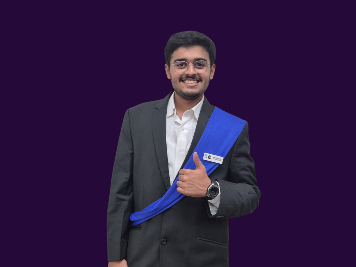
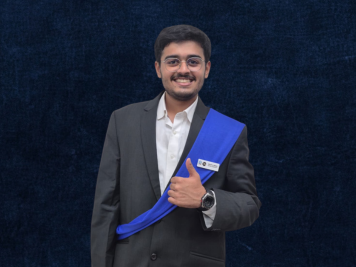
photo cards

diff --git a/index.html b/index.html
@@ -418,7 +418,7 @@
                 <!-- Core Team Member 2 -->
                 <div class="team-card">
                     <div class="team-img-wrapper">
-                        <img src="photos/rupak.jpg" alt="Rupak Humad">
+                        <img src="photos/Core/rupak.png" alt="Rupak Humad">
                     </div>
                     <div class="team-info">
                         <h4>Rupak Humad</h4>
@@ -442,7 +442,7 @@
                 <!-- Core Team Member 4 -->
                 <div class="team-card">
                     <div class="team-img-wrapper">
-                        <img src="photos/avni.jpg" alt="Avni Kondejkar">
+                        <img src="photos/Core/avni.png" alt="Avni Kondejkar">
                     </div>
                     <div class="team-info">
                         <h4>Avni Kondejkar</h4>
@@ -454,7 +454,7 @@
                 <!-- Core Team Member 5 -->
                 <div class="team-card">
                     <div class="team-img-wrapper">
-                        <img src="photos/Prajval.jpg" alt="Prajval Barve">
+                        <img src="photos/Core/prajval.png" alt="Prajval Barve">
                     </div>
                     <div class="team-info">
                         <h4>Prajval Barve</h4>
@@ -466,7 +466,7 @@
                 <!-- Core Team Member 6 -->
                 <div class="team-card">
                     <div class="team-img-wrapper">
-                        <img src="photos/preet.jpg" alt="Preet Panchal">
+                        <img src="photos/Core/preet.png" alt="Preet Panchal">
                     </div>
                     <div class="team-info">
                         <h4>Preet Panchal</h4>
@@ -478,7 +478,7 @@
                 <!-- Core Team Member 7 -->
                 <div class="team-card">
                     <div class="team-img-wrapper">
-                        <img src="photos/piyush.jpg" alt="Piyush Nirban">
+                        <img src="photos/Core/piyush.png" alt="Piyush Nirban">
                     </div>
                     <div class="team-info">
                         <h4>Piyush Nirban</h4>
@@ -487,10 +487,10 @@
                     </div>
                 </div>
 
-                <!-- Core Team Member 8 -->
+                <!-- Core Team Member 8  -->
                 <div class="team-card">
                     <div class="team-img-wrapper">
-                        <img src="photos/shraddha.jpg" alt="Shraddha Behra">
+                        <img src="photos/Core/shraddha.png" alt="Shraddha Behra">
                     </div>
                     <div class="team-info">
                         <h4>Shraddha Behra</h4>
@@ -502,7 +502,7 @@
                 <!-- Core Team Member 9 -->
                 <div class="team-card">
                     <div class="team-img-wrapper">
-                        <img src="photos/pranav.jpg" alt="Pranav Joshi">
+                        <img src="photos/Core/pranav.png" alt="Pranav Joshi">
                     </div>
                     <div class="team-info">
                         <h4>Pranav Joshi</h4>
@@ -510,10 +510,10 @@
                         <p>Leading Vortex 14.0 with passion and dedication.</p>
                     </div>
                 </div>
-                <!-- Core Team Member 24 -->
+                <!-- Core Team Member 10 -->
                 <div class="team-card">
                     <div class="team-img-wrapper">
-                        <img src="photos/Core/mrunal_bhat.jpeg" alt="Mrunal Bhat">
+                        <img src="photos/Core/mrunal.png" alt="Mrunal Bhat">
                     </div>
                     <div class="team-info">
                         <h4>Mrunal Bhat</h4>
@@ -522,10 +522,10 @@
                     </div>
                 </div>
 
-                <!-- Core Team Member 25 -->
+                <!-- Core Team Member 11 -->
                 <div class="team-card">
                     <div class="team-img-wrapper">
-                        <img src="Core/photos/ishan.jpg" alt="Ishan Chhaparwal">
+                        <img src="photos/Core/ishan.png" alt="Ishan Chhaparwal">
                     </div>
                     <div class="team-info">
                         <h4>Ishan Chhaparwal</h4>
@@ -533,10 +533,10 @@
                         <p>Leading Vortex 14.0 with passion and dedication.</p>
                     </div>
                 </div>
-                <!-- Core Team Member 10 -->
+                <!-- Core Team Member 12 -->
                 <div class="team-card">
                     <div class="team-img-wrapper">
-                        <img src="Core/photos/dharam.jpg" alt="Dharam Visaria">
+                        <img src="photos/Core/dharam.png" alt="Dharam Visaria">
                     </div>
                     <div class="team-info">
                         <h4>Dharam Visaria</h4>
@@ -545,10 +545,10 @@
                     </div>
                 </div>
 
-                <!-- Core Team Member 11 -->
+                <!-- Core Team Member 13 -->
                 <div class="team-card">
                     <div class="team-img-wrapper">
-                        <img src="photos/prapti.jpg" alt="Prapti Pandey">
+                        <img src="photos/Core/prapti.png" alt="Prapti Pandey">
                     </div>
                     <div class="team-info">
                         <h4>Prapti Pandey</h4>
@@ -557,10 +557,10 @@
                     </div>
                 </div>
 
-                <!-- Core Team Member 12 -->
+                <!-- Core Team Member 14 -->
                 <div class="team-card">
                     <div class="team-img-wrapper">
-                        <img src="photos/prem.jpg" alt="Prem Kudale">
+                        <img src="photos/Core/prem.png" alt="Prem Kudale">
                     </div>
                     <div class="team-info">
                         <h4>Prem Kudale</h4>
@@ -569,34 +569,10 @@
                     </div>
                 </div>
 
-                <!-- Core Team Member 13 -->
-                <div class="team-card">
-                    <div class="team-img-wrapper">
-                        <img src="photos/kimaya.jpg" alt="Kimaya Patankar">
-                    </div>
-                    <div class="team-info">
-                        <h4>Kimaya Patankar</h4>
-                        <span class="role">Hospitality Head</span>
-                        <p>Leading Vortex 14.0 with passion and dedication.</p>
-                    </div>
-                </div>
-
-                <!-- Core Team Member 14 -->
-                <div class="team-card">
-                    <div class="team-img-wrapper">
-                        <img src="photos/aarya.jpg" alt="Aarya Kore">
-                    </div>
-                    <div class="team-info">
-                        <h4>Aarya Kore</h4>
-                        <span class="role">Hospitality Head</span>
-                        <p>Leading Vortex 14.0 with passion and dedication.</p>
-                    </div>
-                </div>
-
                 <!-- Core Team Member 15 -->
                 <div class="team-card">
                     <div class="team-img-wrapper">
-                        <img src="photos/sanyuja.jpg" alt="Sanyuja Sonawane">
+                        <img src="photos/Core/sanyuja.png" alt="Sanyuja Sonawane">
                     </div>
                     <div class="team-info">
                         <h4>Sanyuja Sonawane</h4>
@@ -608,7 +584,7 @@
                 <!-- Core Team Member 16 -->
                 <div class="team-card">
                     <div class="team-img-wrapper">
-                        <img src="photos/yutika.jpg" alt="Yutika Rathi">
+                        <img src="photos/Core/yutika.png" alt="Yutika Rathi">
                     </div>
                     <div class="team-info">
                         <h4>Yutika Rathi</h4>
@@ -620,7 +596,7 @@
                 <!-- Core Team Member 17 -->
                 <div class="team-card">
                     <div class="team-img-wrapper">
-                        <img src="photos/uday.jpg" alt="Uday Gondane">
+                        <img src="photos/Core/uday.png" alt="Uday Gondane">
                     </div>
                     <div class="team-info">
                         <h4>Uday Gondane</h4>
@@ -632,7 +608,7 @@
                 <!-- Core Team Member 18 -->
                 <div class="team-card">
                     <div class="team-img-wrapper">
-                        <img src="photos/karthikey.jpg" alt="Karthikey Daga">
+                        <img src="photos/Core/karthikey.png" alt="Karthikey Daga">
                     </div>
                     <div class="team-info">
                         <h4>Karthikey Daga</h4>
@@ -644,7 +620,7 @@
                 <!-- Core Team Member 19 -->
                 <div class="team-card">
                     <div class="team-img-wrapper">
-                        <img src="photos/aditi.jpg" alt="Aditi Narute">
+                        <img src="photos/Core/aditi.png" alt="Aditi Narute">
                     </div>
                     <div class="team-info">
                         <h4>Aditi Narute</h4>
@@ -656,7 +632,7 @@
                 <!-- Core Team Member 20 -->
                 <div class="team-card">
                     <div class="team-img-wrapper">
-                        <img src="photos/soham.jpg" alt="Soham Patil">
+                        <img src="photos/Core/soham.png" alt="Soham Patil">
                     </div>
                     <div class="team-info">
                         <h4>Soham Patil</h4>
@@ -668,7 +644,7 @@
                 <!-- Core Team Member 21 -->
                 <div class="team-card">
                     <div class="team-img-wrapper">
-                        <img src="photos/alina.jpg" alt="Alina Kausar">
+                        <img src="photos/Core/alina.png" alt="Alina Kausar">
                     </div>
                     <div class="team-info">
                         <h4>Alina Kausar</h4>
@@ -680,7 +656,7 @@
                 <!-- Core Team Member 22 -->
                 <div class="team-card">
                     <div class="team-img-wrapper">
-                        <img src="photos/leisha.jpg" alt="Leisha Agrawal">
+                        <img src="photos/Core/leisha.png" alt="Leisha Agrawal">
                     </div>
                     <div class="team-info">
                         <h4>Leisha Agrawal</h4>
@@ -692,7 +668,7 @@
                 <!-- Core Team Member 23 -->
                 <div class="team-card">
                     <div class="team-img-wrapper">
-                        <img src="photos/mrunal.jpg" alt="Mrunal Pawar">
+                        <img src="photos/Core/mrunalp.png" alt="Mrunal Pawar">
                     </div>
                     <div class="team-info">
                         <h4>Mrunal Pawar</h4>
@@ -700,25 +676,49 @@
                         <p>Leading Vortex 14.0 with passion and dedication.</p>
                     </div>
                 </div>
-
-                <!-- Core Team Member 26 -->
+                
+                <!-- Core Team Member 24 -->
                 <div class="team-card">
                     <div class="team-img-wrapper">
-                        <img src="photos/soham.jpg" alt="Soham Deshpande">
+                        <img src="photos/Core/kimaya.png" alt="Kimaya Patankar">
                     </div>
                     <div class="team-info">
-                        <h4>Soham Deshpande</h4>
+                        <h4>Kimaya Patankar</h4>
+                        <span class="role">Hospitality Head</span>
+                        <p>Leading Vortex 14.0 with passion and dedication.</p>
+                    </div>
+                </div>
+
+                <!-- Core Team Member 25 -->
+                <div class="team-card">
+                    <div class="team-img-wrapper">
+                        <img src="photos/Core/arya.png" alt="Aarya Kore">
+                    </div>
+                    <div class="team-info">
+                        <h4>Aarya Kore</h4>
+                        <span class="role">Hospitality Head</span>
+                        <p>Leading Vortex 14.0 with passion and dedication.</p>
+                    </div>
+                </div>
+                
+                <div class="team-card">
+                    <div class="team-img-wrapper">
+                        <img src="photos/Core/pranav_b.png" alt="Pranav Bhavsar">
+                    </div>
+                    <!-- Core Team Member 26 -->
+                    <div class="team-info">
+                        <h4>Pranav Bhavsar</h4>
                         <span class="role">Videography & Photography Head</span>
                         <p>Leading Vortex 14.0 with passion and dedication.</p>
                     </div>
                 </div>
+                <!-- Core Team Member 27 -->
                 <div class="team-card">
                     <div class="team-img-wrapper">
-                        <img src="photos/pranav_bhavsar.jpg" alt="Pranav Bhavsar">
+                        <img src="photos/Core/soham_d.png" alt="Soham Deshpande">
                     </div>
-                    <!-- Core Team Member 27 -->
                     <div class="team-info">
-                        <h4>Pranav Bhavsar</h4>
+                        <h4>Soham Deshpande</h4>
                         <span class="role">Videography & Photography Head</span>
                         <p>Leading Vortex 14.0 with passion and dedication.</p>
                     </div>
